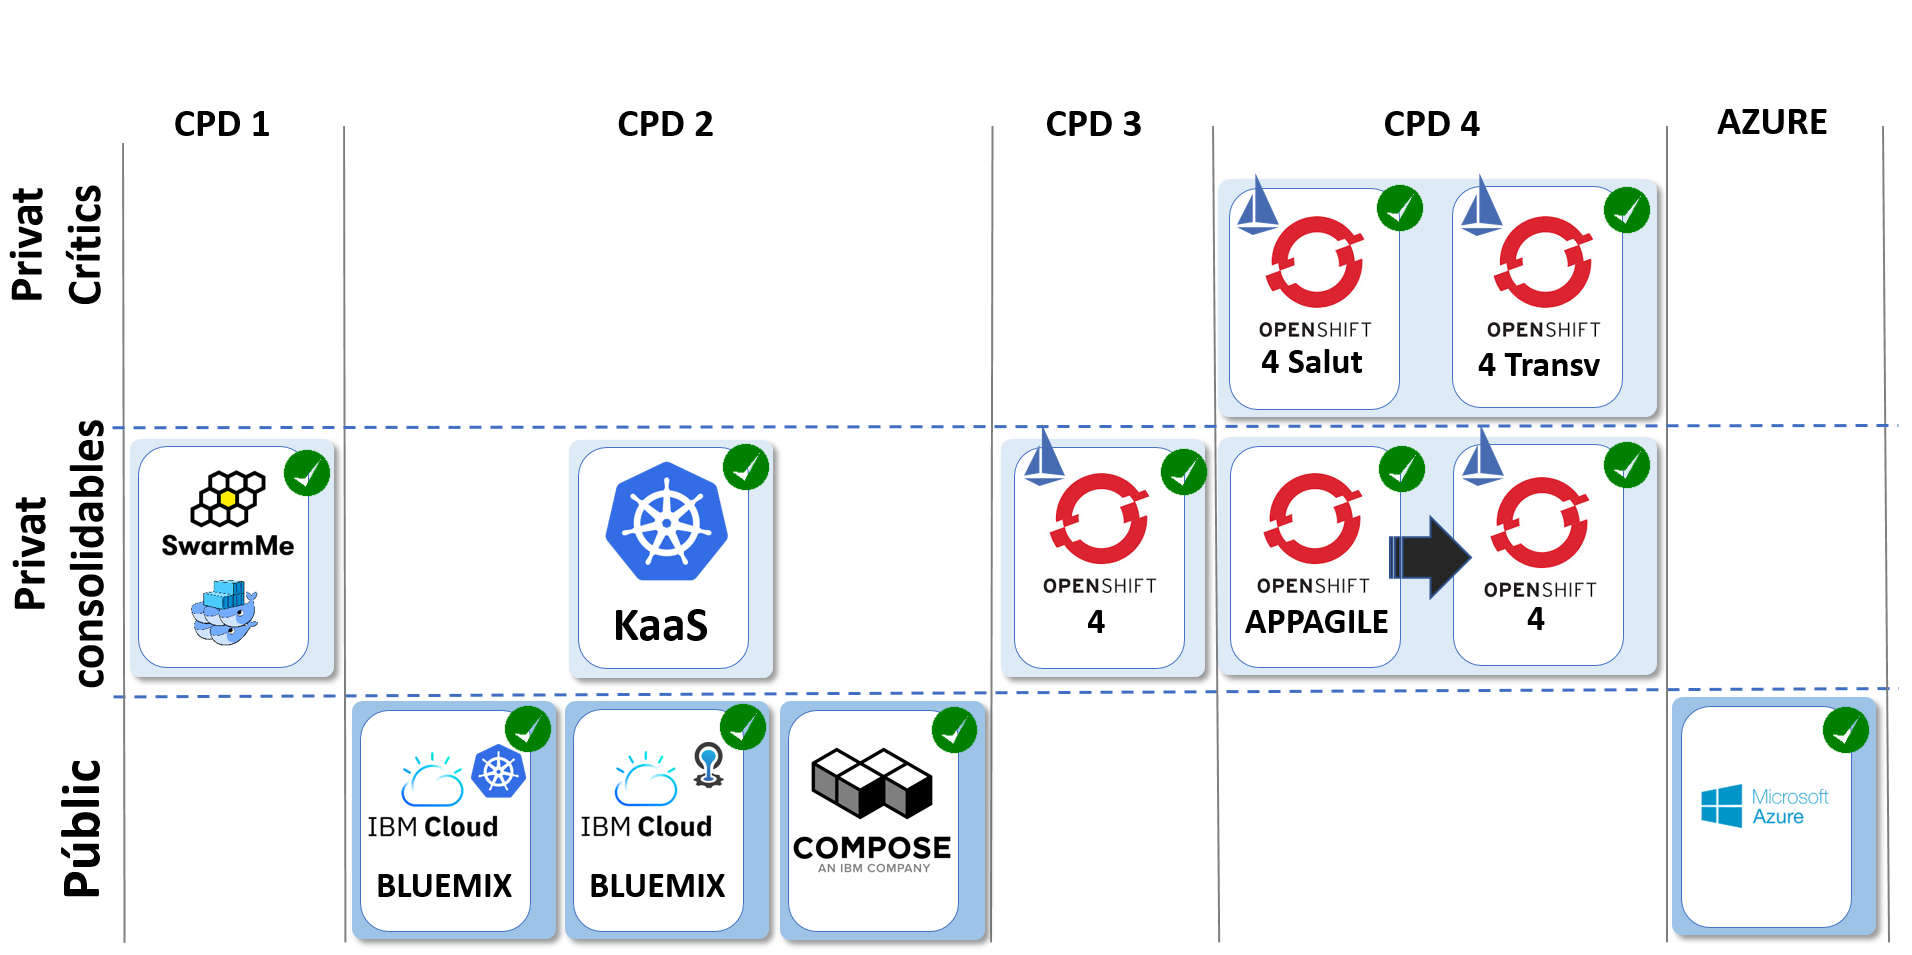
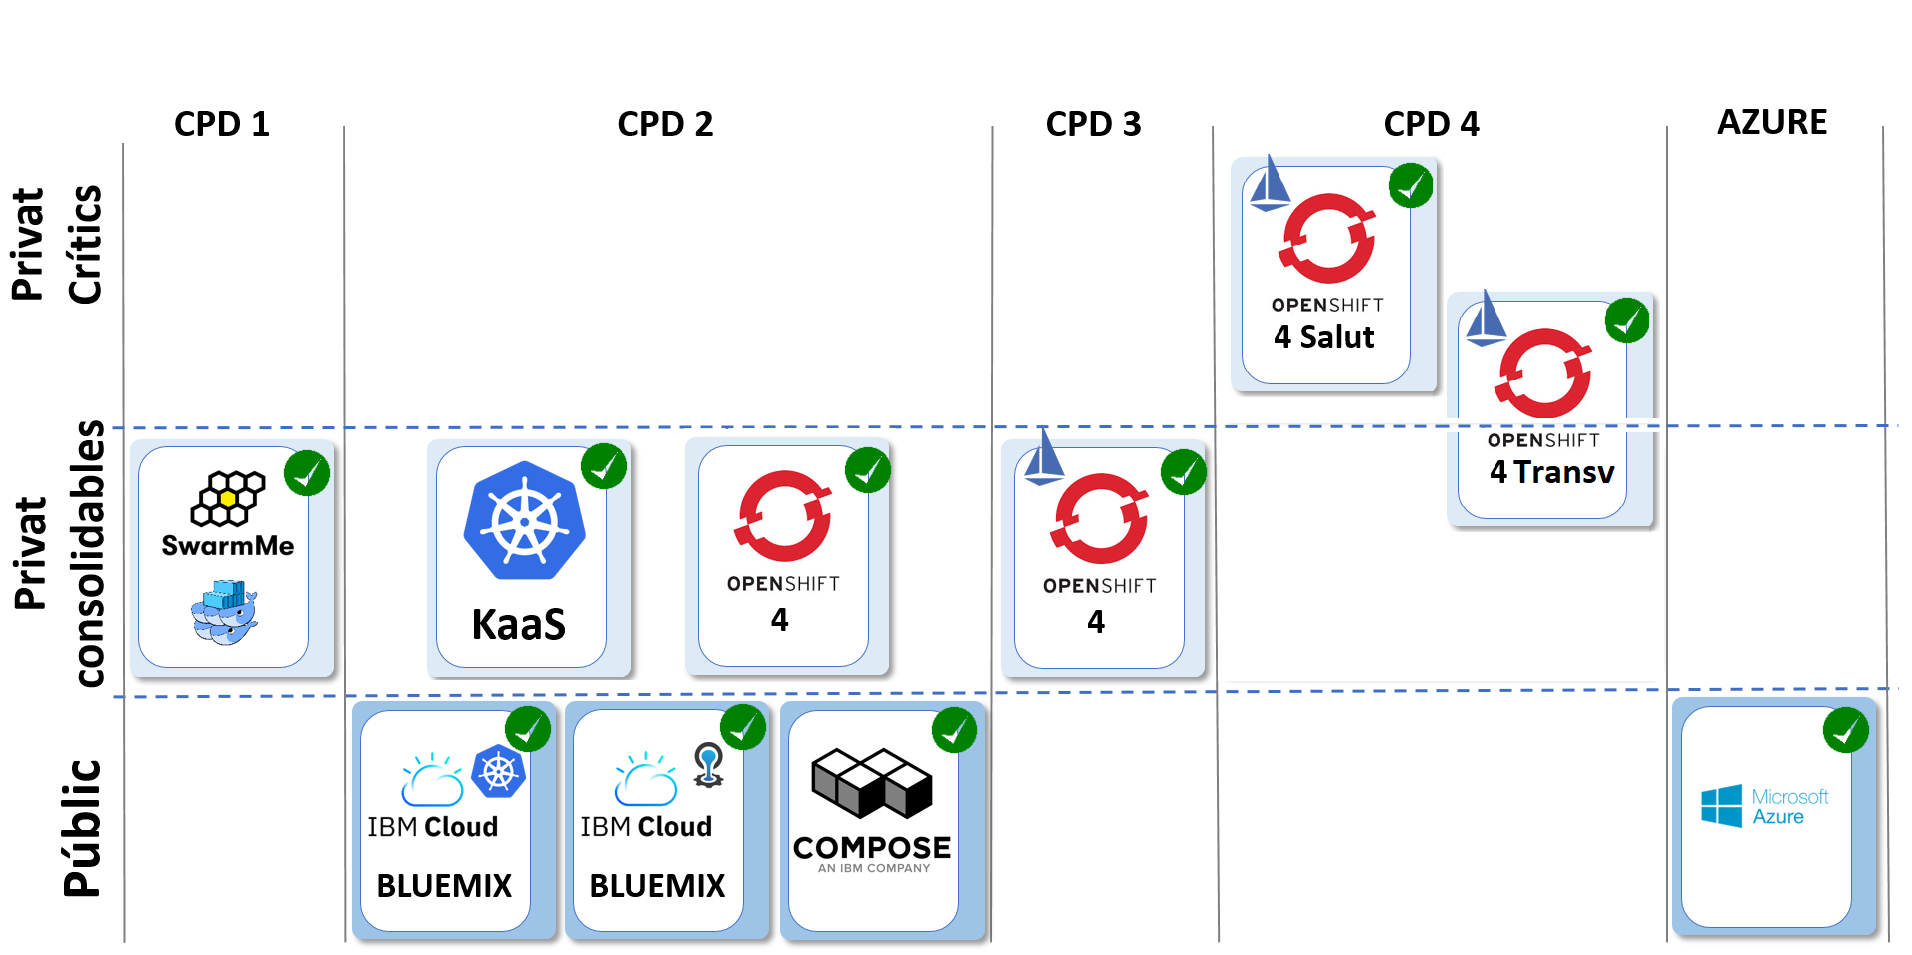
Actualitzacio plataformes Cloud

Changed region(s): [[0.6172, 0.1518, 0.8949, 0.7288], [0.216, 0.4555, 0.4937, 0.7288]]

diff --git a/content/cloud/plataformes-cloud.md b/content/cloud/plataformes-cloud.md
@@ -1,5 +1,5 @@
 +++
-date        = "2020-06-11"
+date        = "2021-09-09"
 title       = "Plataformes Cloud"
 description = "Plataformes cloud disponibles a la Generalitat de catalunya"
 sections    = "Cloud"
@@ -21,26 +21,14 @@ Les plataformes cloud que ofereix la Generalitat de Catalunya clasificades per t
 
 ### CaaS
 
-##### AppAgile
-
-**Actualment aquesta plataforma està deprecada i està en procés de migració a Openshift 4. No es desplegarà cap aplicació nova.**
-
-- http://appagile.io/
-- Basat en Openshift: https://www.openshift.com/
-- Contenidors docker i orquestració amb Openshift
-- Versió:  **OpenShift Container Platform 3.9.65 i Kubernetes 1.9.1.** 
-  
-Disponible a CPD4 en entorns de consolidables.
-<br/><br/>
-
 ##### Openshift 4
 
 - Openshift: https://www.openshift.com/
 - Contenidors docker i orquestració amb Openshift
-- Versió:  **OpenShift Container Platform 4.3 i Kubernetes 1.16.** 
+- Versió:  **OpenShift Container Platform 4.6 i Kubernetes 1.19.** 
 - Disposa de Service Mesh. **Apte per desplegar aplicacions basades en microserveis.** 
 
-Disponible a CPD3 i CPD4 en entorns de consolidables.
+Disponible a CPD2, CPD3 i CPD4 en entorns de consolidables.
 
 Disponible a CPD4 en entorns de critics.
 <br/><br/>
@@ -58,23 +46,12 @@ Disponible a CPD1 en entorns de consolidables.
 
 - Basat en Kubernetes: https://kubernetes.io/
 - Contenidors docker i orquestració amb Kubernetes
-- Versió: **Kubernetes 1.14.8. Docker 18.9**
+- Versió: **Kubernetes 1.18.10. Docker 18.9**
 
 Disponible a CPD2 en entorns de consolidables.
 <br/><br/>
 
 ### DBaaS
-
-##### AppAgile
-
-**Actualment aquesta plataforma està deprecada i està en procés de migració a Openshift 4. No es desplegarà cap aplicació nova.**
-
-- http://appagile.io/
-- Basat en Openshift: https://www.openshift.com/
-- S'ofereixen les Bases de dades administrades PostgreSQL i MySQL.
-
-Disponible a CPD4 en entorns de consolidables.
-<br/><br/>
 
 ##### Openshift 4
 
@@ -84,6 +61,10 @@ Disponible a CPD4 en entorns de consolidables.
 Disponible a CPD4 en entorns de consolidables.
 
 Disponible a CPD4 en entorns de critics.
+
+- S'ofereixen les bases de dades administrades PostgreSQL, MongoDB i Redis.
+
+Disponible a CPD2 en entorns de consolidables.
 <br/><br/>
 
 ##### KaaS
@@ -114,7 +95,7 @@ Disponible a CPD2 en entorns de consolidables.
 Contenidors docker desplegats sobre la plataforma Kubernetes
 
 - https://www.ibm.com/cloud-computing/bluemix/es/containers
-- Versió: **Kubernetes 1.16.10 Containerd 1.3.4**
+- Versió: **Kubernetes 1.19.14 Containerd 1.3.3**
 <br/><br/>
 
 ### DBaaS
